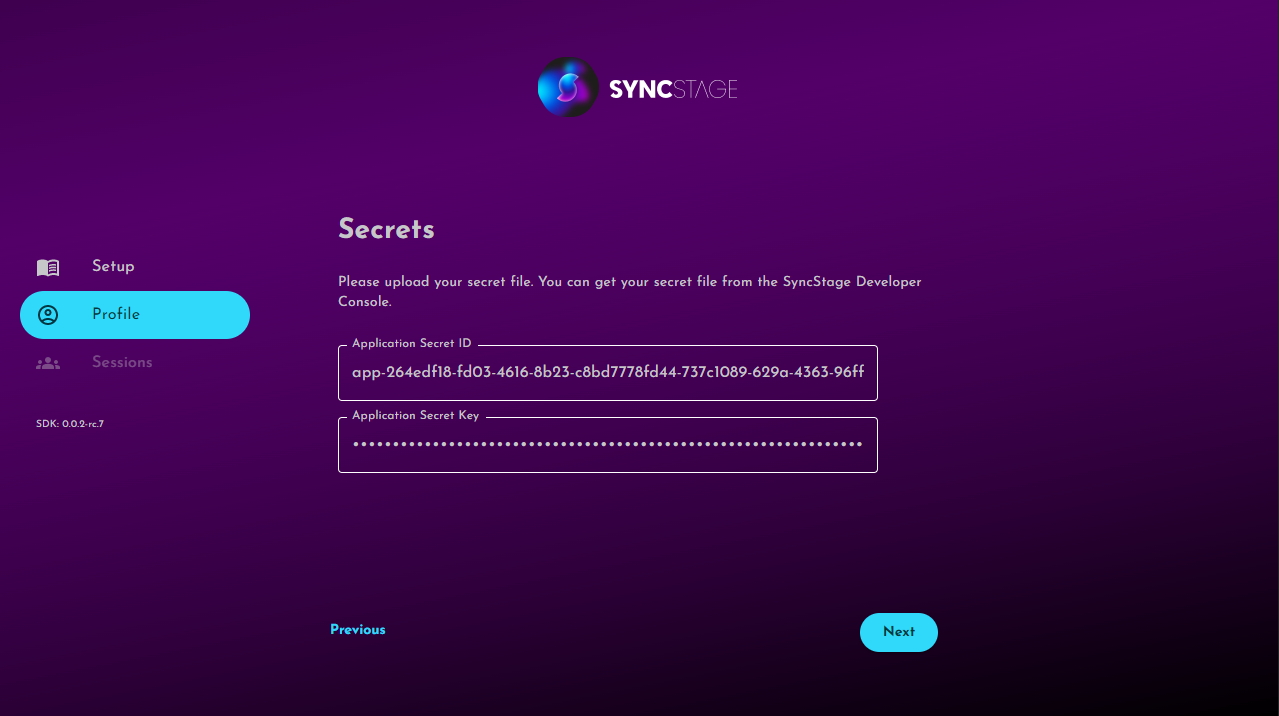
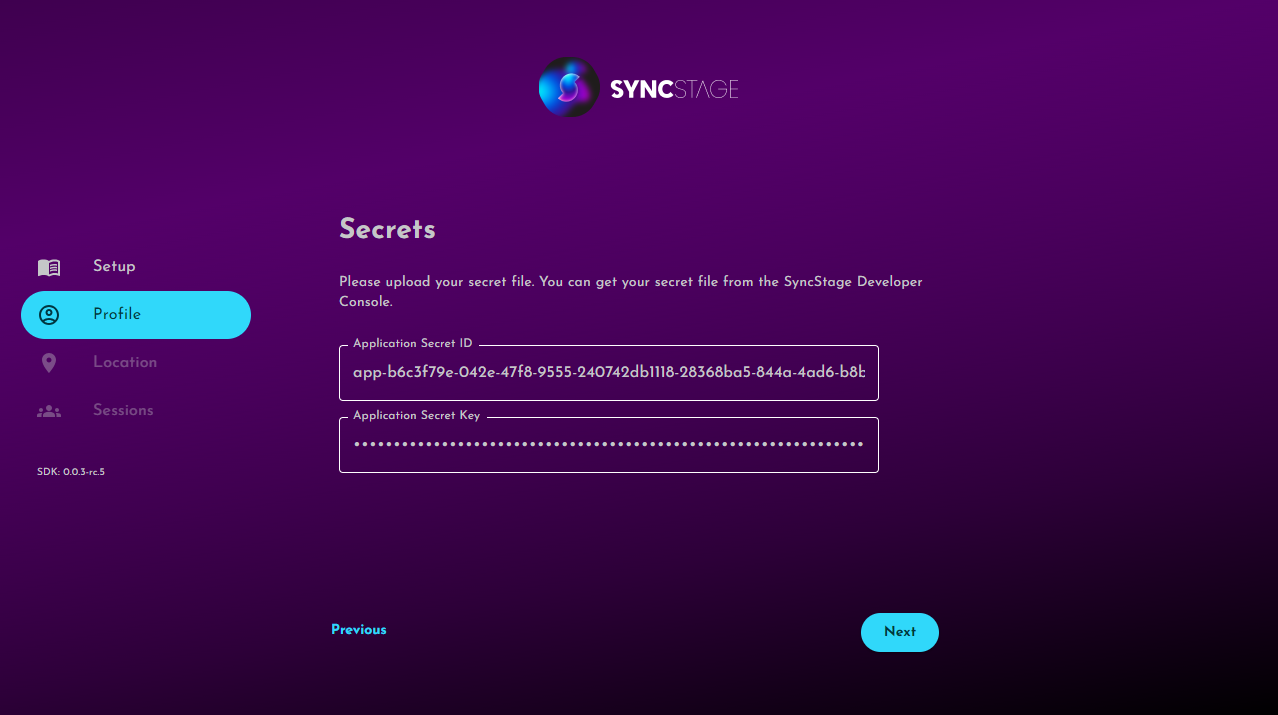
updated docs for web

diff --git a/docs/web/sdk-methods.md b/docs/web/sdk-methods.md
@@ -53,13 +53,24 @@ getSDKVersion(): string
 ```
 
 
-### Get zones list
+### Get best available server
 
-Gets available Zones list, where a session can be created
+Get best available server, where a session can be created
 
 ```typescript
-async zoneList(): Promise<[IZonesInRegionsList | null, SyncStageSDKErrorCode]>
+async getBestAvailableServer(): Promise<[IServerInstance | null, SyncStageSDKErrorCode]>
 ```
+
+
+### Get server instances
+
+Get server instances so you can select the server that is suitable for your session.
+
+```typescript
+  async getServerInstances(): Promise<[IServerInstances | null, SyncStageSDKErrorCode]>
+```
+
+
 
 ### Create a session
 
@@ -68,13 +79,15 @@ Creates a session in a given zone by a given user from your user pool.
 ```typescript
 async createSession(
     zoneId: string,
+    studioServerId: string,
     userId: string
 ): Promise<[ISessionIdentifier | null, SyncStageSDKErrorCode]>
 ```
 
 Parameters:
 
-* `zoneId` - zone in which we want to host our session
+* `zoneId` - zone in which your session is hosted
+* `studioServerId` - studio server where you are running your session
 * `userId` - id of your app user to match the data between SyncStage and your backend
 
 ### Join the session
@@ -85,9 +98,9 @@ Joins a particular session identified by `sessionCode`.
 async join(
     sessionCode: string,
     userId: string,
+    zoneId: string,
+    studioServerId: string,
     displayName?: string | null,
-    latitude?: number | null,
-    longitude?: number | null,
 ): Promise<[ISession | null, SyncStageSDKErrorCode]>
 ```
 
@@ -97,21 +110,12 @@ Parameters:
 
 * `userId` - id of your app user to match de data between SyncStage and your backend
 
+* `zoneId` - zone in which your session is hosted
+
+* `studioServerId` - studio server where you are running your session
+
 * `displayName` - your app user display name
 
-* `latitude` - current location latitude
-
-* `longitude` - current location longitude
-
-!!! note
-
-    Latitude and longitude are now optional parameters, in the future releases it will be used to further optimize the latency.
-
-!!! warning
-
-    SyncStage **Web** SDK is available only in a preview version. It is expected to be available to use by the end of June 2023.
-
-    
 ### Get session state
 
 Gets state of currently joined session.
@@ -187,3 +191,21 @@ Remove the callback in the SyncStage.
 ```typescript
 unregisterDesktopAgentReconnectedCallback(): void;
 ```
+
+<!-- Available in 0.1.0 but not tested - no ui -->
+<!-- ### Change latency optimization level
+Change the latency optimization level using of the following options: hightQuality, optimized, bestPerformance, ultraFast.
+
+```typescript
+async changeLatencyOptimizationLevel(level: number): Promise<SyncStageSDKErrorCode>
+```
+Parameters:
+
+* `level`- latency optimization level value.
+
+### Get latency optimization level
+Returns latency optimization level.
+
+```typescript
+async getLatencyOptimizationLevel(): Promise<[IZoneLatency | null, SyncStageSDKErrorCode]>
+``` -->

diff --git a/docs/web/quickstart.md b/docs/web/quickstart.md
@@ -1,38 +1,29 @@
-!!! warning
-
-    SyncStage **Web** SDK is available only in a preview version. It is expected to be available to use by the end of June 2023.
-
 ## Before you begin
 
 Before you start developing your application with the SyncStage SDK, you need to opt-in to Early Access Developer program and get your SyncStage SDK secrets. Once you have opted-in we will contact you to provide you with your SDK secrets.
-The SDK secrets are your credentials that authenticates requests associated with your project. 
+The SDK secrets are your credentials that authenticates requests associated with your project.
 
 [Become an Early Access Developer](https://sync-stage.com/){ .md-button target=_blank}
 
-
 ## Start with an example project
-The best way to start with SyncStage is by trying out our example project available on GitHub [SyncStage Test App for Web](https://github.com/opensesamemedia/syncstage-sdk-npm-package-tester){target=_blank}. 
 
+The best way to start with SyncStage is by trying out our example project available on GitHub [SyncStage Test App for Web](https://github.com/opensesamemedia/syncstage-sdk-npm-package-tester){target=_blank}.
 
 [Learn more](test-app.md){ .md-button }
 
-
-
-
 ## Use SyncStage SDK in your application
-### 1. Add package dependency.
-To get the latest npm package of the SyncStage SDK install it from: https://www.npmjs.com/package/@opensesamemedia/syncstage
 
+### 1. Add package dependency
+
+To get the latest npm package of the SyncStage SDK install it from: <https://www.npmjs.com/package/@opensesamemedia/syncstage>
 
 ### 2. Get SyncStage Desktop Agent
 
 To use test application you need to install SyncStage Desktop Agent on your Mac.
-[Download SyncStage Desktop Agent for macOS (availabe soon)](){ .md-button}
-<!-- [Download SyncStage Desktop Agent for macOS](https://syncstage.s3.amazonaws.com/Agent/SyncStageAgent_1.0.0.dmg){ .md-button} -->
+[Download SyncStage Desktop Agent for macOS](https://syncstage.s3.amazonaws.com/Agent/SyncStageAgent_1.0.0.dmg){ .md-button}
 
+### 3. Integrate the SyncStage class with your app
 
-
-### 3. Integrate the SyncStage class with your app.
 Here you can find a list of:
 
 * [SDK Methods](sdk-methods.md)

diff --git a/docs/web/sdk-delegates.md b/docs/web/sdk-delegates.md
@@ -1,7 +1,3 @@
-!!! warning
-
-    SyncStage **Web** SDK is available only in a preview version. It is expected to be available to use by the end of June 2023.
-
 SyncStage class provide two delegate:, `ISyncStageUserDelegate` and `ISyncStageConnectivityDelegate` which provide a set of callbacks to inform your application about asynchronous events from the SyncStage. You can define those object and provide to the SyncStage constructor or update public SyncStage properties `userDelegate` and `connectivityDelegate` anytime.
 
 ### SyncStageUserDelegate
@@ -30,3 +26,15 @@ interface ISyncStageConnectivityDelegate {
 ```
 
 `transmitterConnectivityChanged` and `receiverConnectivityChanged` can be used to update connectivity indicator of particular connections. The `desktopAgentReconnected` callback is suggested to be used to trigger rebuild of the session state in the application (during the disconnection, new connections might be added or removed to the session which result in the ui state inconsistency).
+
+
+### SyncStageDiscoveryDelegate
+Responsible for getting callbacks about available zones latency.
+
+```typescript
+export default interface ISyncStageDiscoveryDelegate {
+  discoveryResults(zones: string[]): void;
+  discoveryLatencyTestResults(results: IZoneLatency[]): void;
+}
+```
+

diff --git a/docs/web/test-app.md b/docs/web/test-app.md
@@ -46,11 +46,20 @@ Once installed and running you will see
 Input nickname of the user that will join the session
 ![alt Nickname](../assets/browser/profile.png "Nickname")
 
-You can now join the existing session
-![alt Nickname](../assets/browser/join.png "Nickname")
+Provide your application secret keys if they are not builded into the app.
+![alt Nickname](../assets/browser/secrets.png "Secrets")
 
-or create a new one
-![alt Nickname](../assets/browser/create.png "Nickname")
+
+You can choose if you want SyncStage to determine the best Studio server for you, or you want to select it manually
+![alt Nickname](../assets/browser/location-selection.png "Location selection")
+
+![alt Nickname](../assets/browser/location-auto.png "Location selection")
+
+![alt Nickname](../assets/browser/location-manual.png "Location selection")
+
+You can now join existing session or create a new one
+![alt Nickname](../assets/browser/join-or-create.png "Join or create")
+
 
 Enjoy your low latency session
-![alt Nickname](../assets/browser/session.png "Nickname")
+![alt Nickname](../assets/browser/session.png "Session")

diff --git a/docs/web/sdk-error-codes.md b/docs/web/sdk-error-codes.md
@@ -1,21 +1,16 @@
-!!! warning
-
-    SyncStage **Web** SDK is available only in a preview version. It is expected to be available to use by the end of June 2023.
-
 Most of the SDK methods return SyncStageSDKErrorCode which can be decoded using following enum class.
 
 ```typescript
 enum SyncStageSDKErrorCode {
-    'UNKNOWN_ERROR'=-1, 
-    'OK'=0,
-    'CONFIGURATION_ERROR'=1,
-    'API_ERROR'=2,
-    'API_UNAUTHORIZED'=3,
-    'AUDIO_STREAMING_ERROR'=4,
-    'STREAM_DOES_NOT_EXIST'=5, 
-    'BAD_VOLUME_VALUE'=6,
-    'SESSION_NOT_JOINED'=7,
-    'AUDIO_SERVER_NOT_REACHABLE'=8,
-    'DESKTOP_AGENT_COMMUNICATION_ERROR' = 9,
+  'API_UNAUTHORIZED' = -1000,
+  'DESKTOP_AGENT_COMMUNICATION_ERROR' = -10,
+  'UNKNOWN_ERROR' = -1,
+  'OK' = 0,
+  'CONFIGURATION_ERROR' = 1,
+  'API_ERROR' = 2,
+  'STREAM_DOES_NOT_EXIST' = 3,
+  'BAD_VOLUME_VALUE' = 4,
+  'NO_ZONE_AVAILABLE' = 5,
+  'NO_STUDIO_SERVER_AVAILABLE' = 6,
 }
 ```

diff --git a/docs/web/overview.md b/docs/web/overview.md
@@ -1,7 +1,3 @@
-!!! warning
-
-    SyncStage **Web** SDK is available only in a preview version. It is expected to be available to use by the end of June 2023.
-
 SyncStage SDK for Web brings low latency communication capabilities to your desktop. 
 
 It consists of two componens:
@@ -9,7 +5,7 @@ It consists of two componens:
 * SyncStage Web SDK (TypeScript & JavaScript) embedded into your web application.
 * SyncStage Agent running on your destkop.
 
-SyncStage SDK for Web current version: `v0.0.1` ([View changelog](changelog.md))
+SyncStage SDK for Web current version: `v0.1.0` ([View changelog](changelog.md))
 
 [Install SDK](quickstart.md){ .md-button .md-button--primary} 
 <!-- [Test SyncStage Web SDK on macOS](https://syncstagebrowsersdktestapp.web.app/){ .md-button target=_blank } -->

diff --git a/docs/web/changelog.md b/docs/web/changelog.md
@@ -1,17 +1,9 @@
-### [In progress]
-
+### [Version 0.1.0 2023-06-30]
 #### Added
 
-#### Changed
+All SyncStage SDK methods implemented. Works with Desktop Agent on MAC.
 
-#### Fixed
-
-### [Version 0.0.1 2023-05-XX]
-#### Added
-
-All methods implemented. Works with Desktop Agent on MAC.
-
-### [Version 0.1.1 2023-03-27]
+### [Version 0.0.1 2023-03-27]
 #### Added
 
 Mock methods for:

diff --git a/docs/ios/changelog.md b/docs/ios/changelog.md
@@ -39,8 +39,6 @@
 
 * Transmitter identifier is removed from the leave session method.
 
-#### Fixed
-
 ### [Version 0.1.0 2022-11-18]
 #### Added
 
@@ -49,7 +47,3 @@
 * Leave session
 * Mute streams
 * Change stream volumes
-
-#### Changed
-
-#### Fixed
